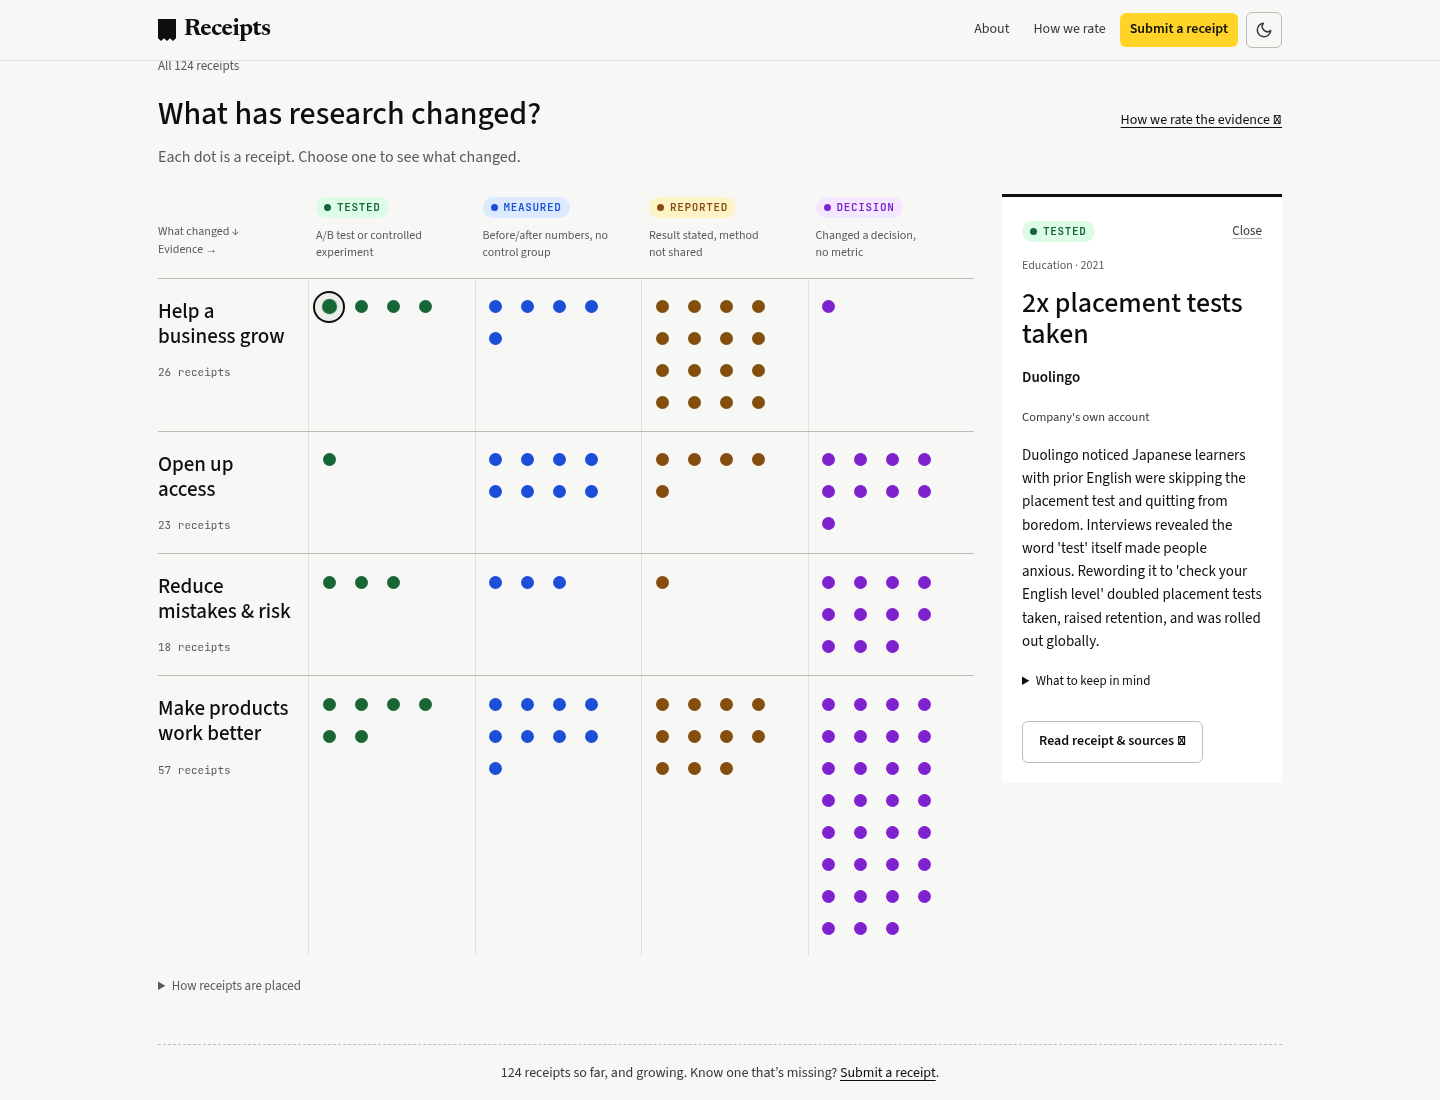
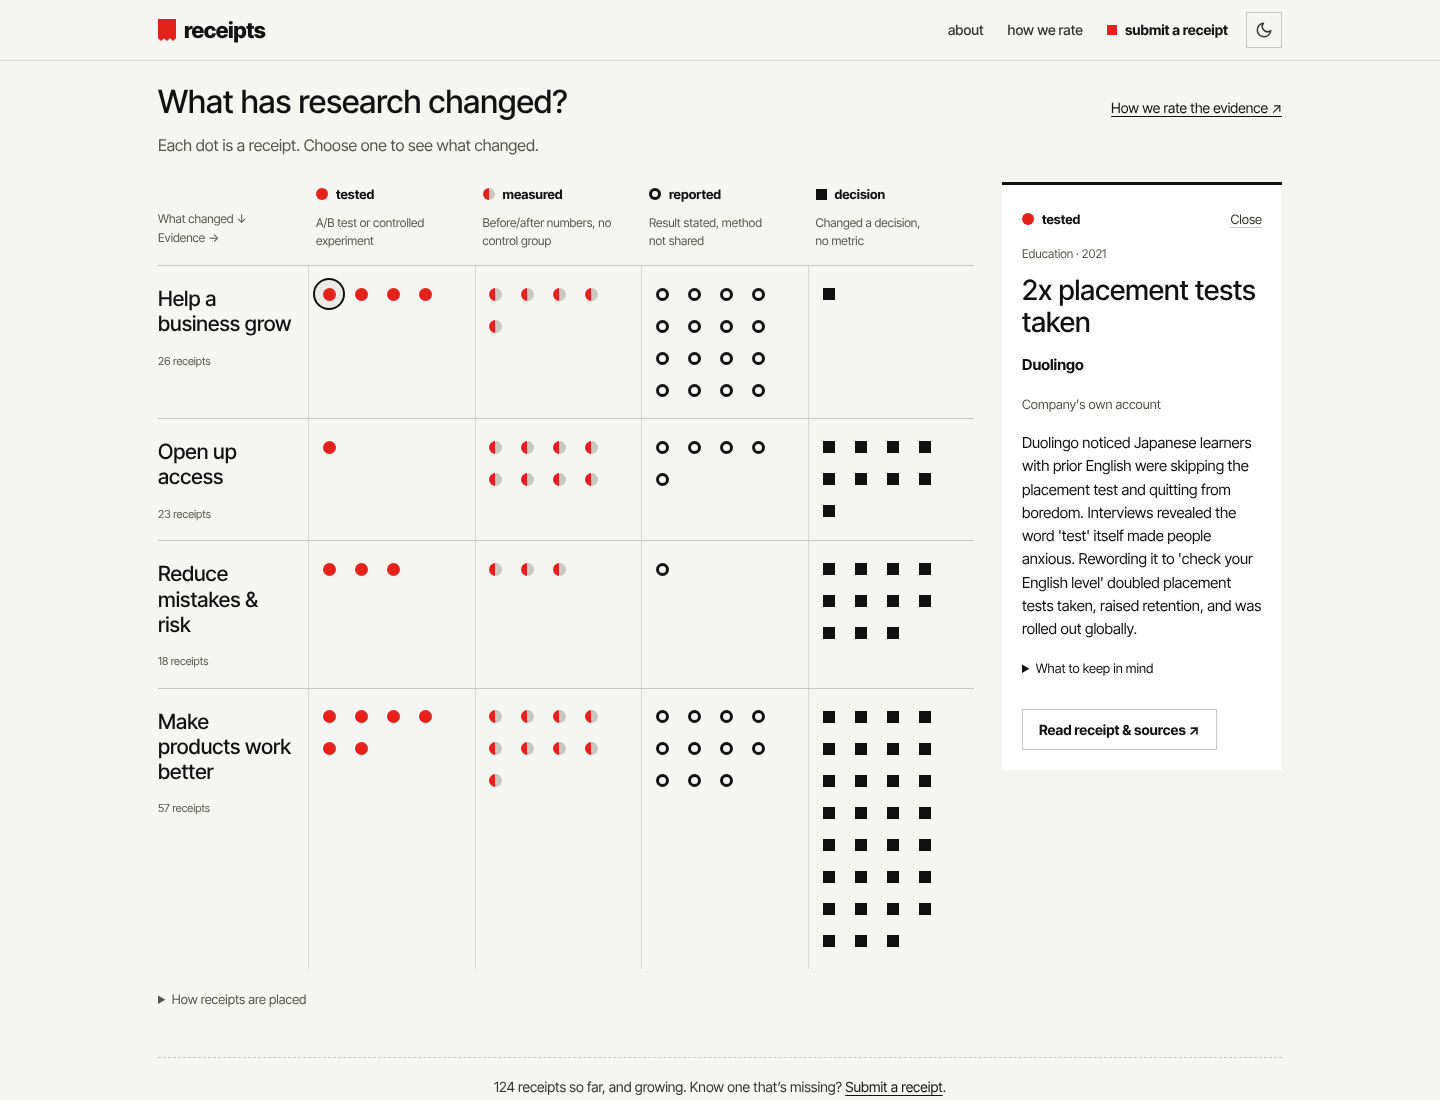
README: retake screenshots after the Troller redesign
Same pages, states and viewports as the capture notes specify; alt text updated to match
what the homepage now shows above the fold.

Claude-Session: https://claude.ai/code/session_01CZofNy58gyHV451ApAUYZs

diff --git a/README.md b/README.md
@@ -8,7 +8,7 @@ A public atlas of documented UX research wins. Find a case, see what the researc
 
 [whathasresearcheverdone.com](https://whathasresearcheverdone.com) gets you here too.
 
-![Receipts homepage with the larger introduction, shared search, evidence filters, and receipt cards](docs/screenshots/homepage-cards.png)
+![Receipts homepage: the lowercase headline beside the red receipt over a grey circle, then the evidence key with its four signs and counts, and the search and view controls](docs/screenshots/homepage-cards.png)
 
 **In this README:** [Explore](#two-ways-to-explore) · [Evidence](#evidence-sources-and-caveats) · [Stack](#stack-and-structure) · [Local setup](#run-locally) · [Data and publishing](#data-and-publishing) · [Moderation](#moderation-and-source-checks) · [Analytics](#sharing-caching-and-analytics) · [Contribute](#contribute)
 
@@ -84,11 +84,11 @@ Read the [rating guide](https://www.researchreceipts.org/how-we-rate), [`BRIEF.m
 <details>
 <summary>Mobile homepage</summary>
 
-<img src="docs/screenshots/homepage-mobile.png" alt="Mobile Receipts homepage with a larger stacked title and introduction, search, and view controls" width="390" />
+<img src="docs/screenshots/homepage-mobile.png" alt="Mobile Receipts homepage with the stacked headline and introduction, the receipt figure, and the evidence key in two columns" width="390" />
 
 </details>
 
-Screenshots were captured from the public site on November 16, 2026, in light mode: desktop at 1440 × 1100 and mobile at 390 × 1000. The live collection can change after capture. See [screenshot capture notes](docs/screenshots/README.md) to refresh them.
+Screenshots were captured from the public site on November 25, 2026, after the Fred Troller redesign, in light mode: desktop at 1440 × 1100 and mobile at 390 × 1000. The live collection can change after capture. See [screenshot capture notes](docs/screenshots/README.md) to refresh them.
 
 ## Design
 

diff --git a/docs/screenshots/README.md b/docs/screenshots/README.md
@@ -1,6 +1,6 @@
 # README screenshots
 
-Captured from **https://www.researchreceipts.org** on **November 16, 2026**, after the larger homepage title and spacing changes were merged. These are browser captures of the deployed app with its loaded web fonts and published data.
+Captured from **https://www.researchreceipts.org** on **November 25, 2026**, after the Fred Troller redesign was merged. These are browser captures of the deployed app with its loaded web fonts and published data.
 
 | File | Page and state | Viewport |
 | --- | --- | --- |
